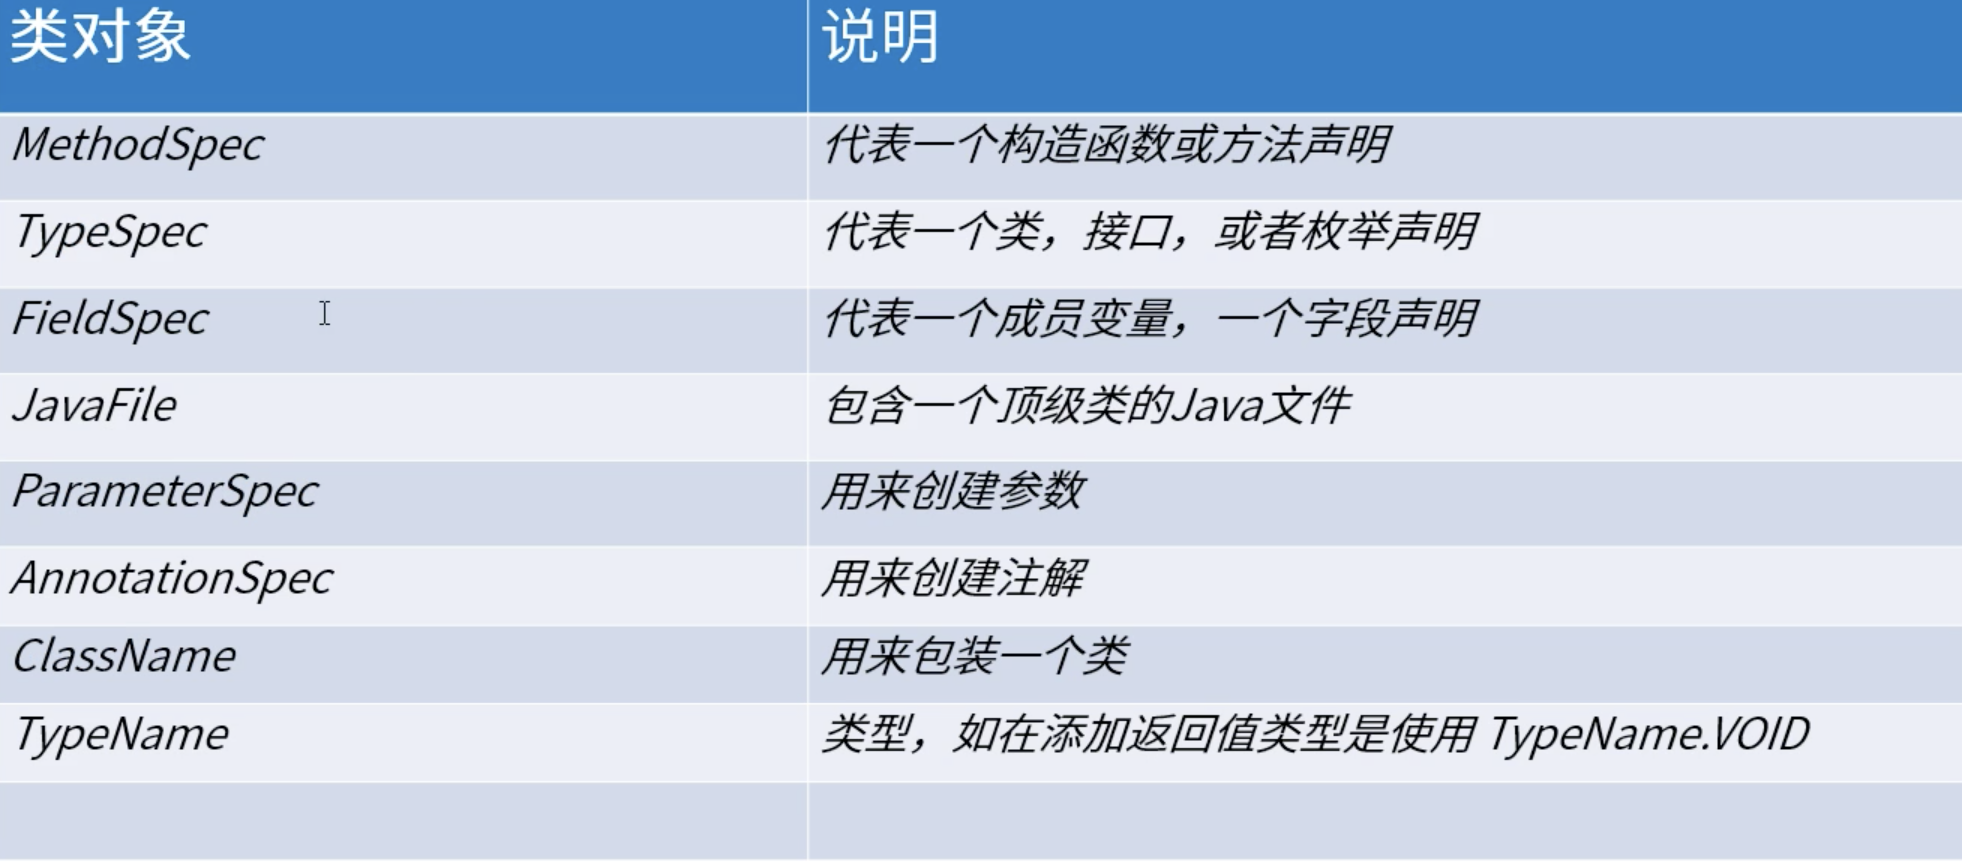
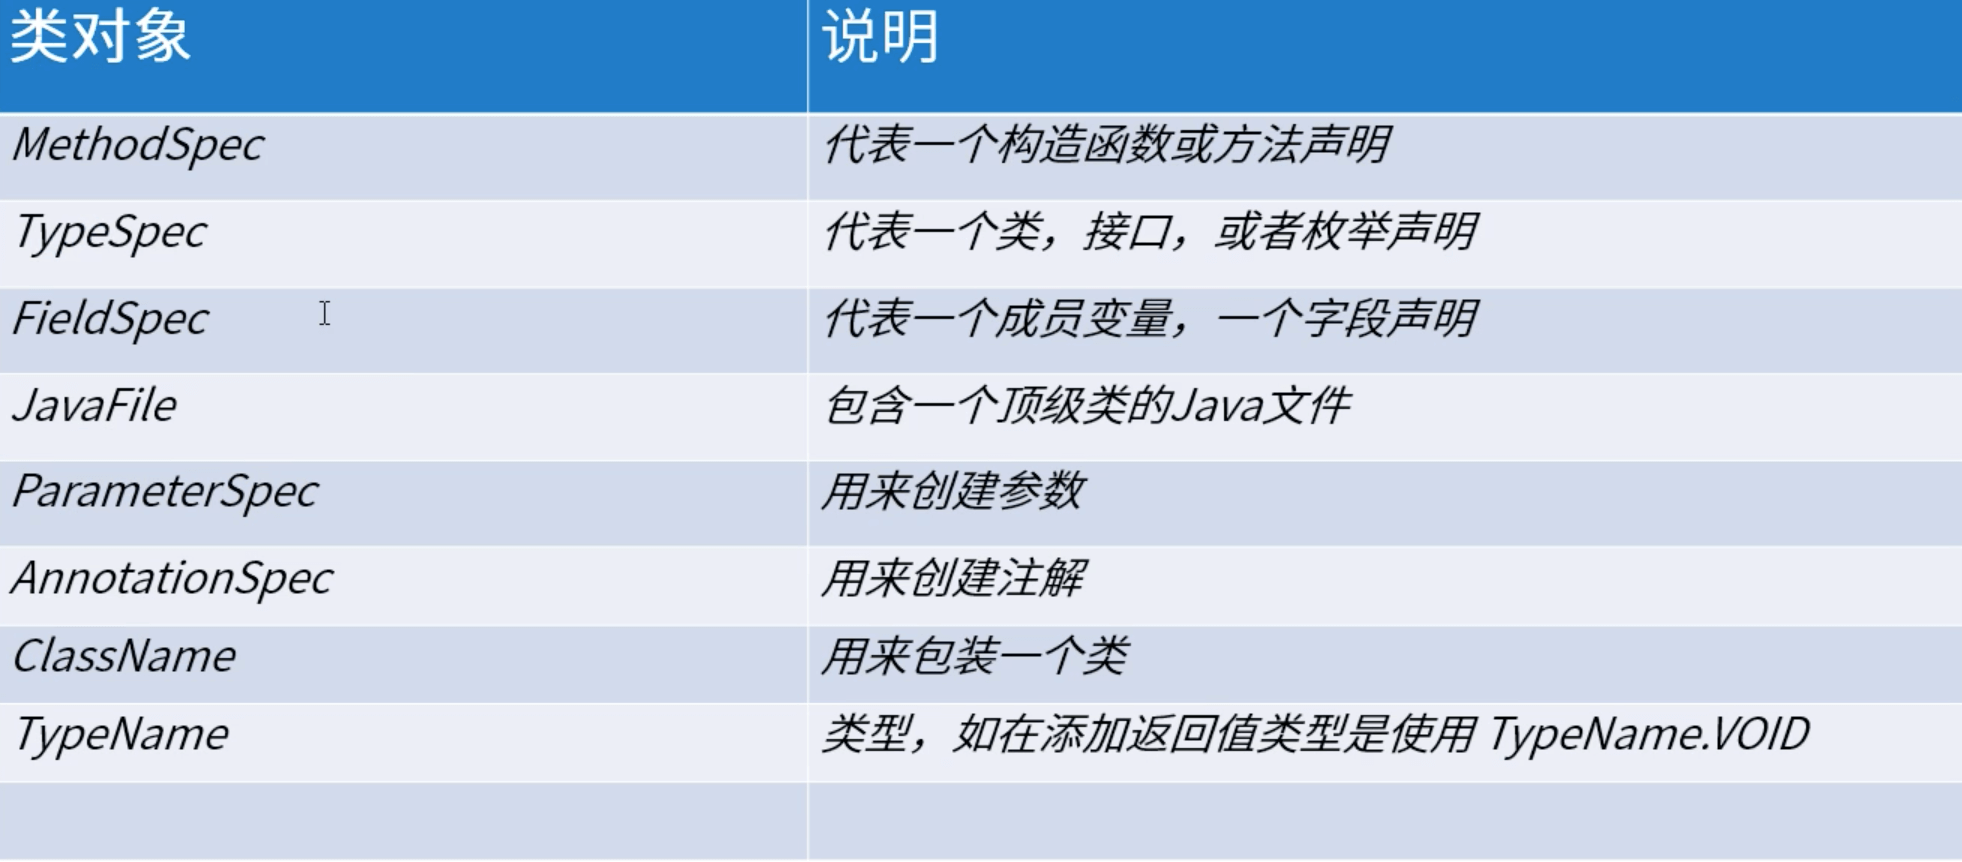
apt pic

Changed region(s): [[0.0, 0.0, 0.4042, 0.1206], [0.4353, 0.0905, 1.0, 0.1508], [0.4353, 0.0603, 0.4664, 0.0905]]

diff --git a/android/apt-javapoet.md b/android/apt-javapoet.md
@@ -21,7 +21,7 @@ public class Main {               //TypeElement 类元素/节点
 ```
 
 ### 1.3、API
-![api](pic/javapoet.png)
+![api](pic/javapoet.jpeg)
 
 ### 1.4、注解的写法
 ```java
